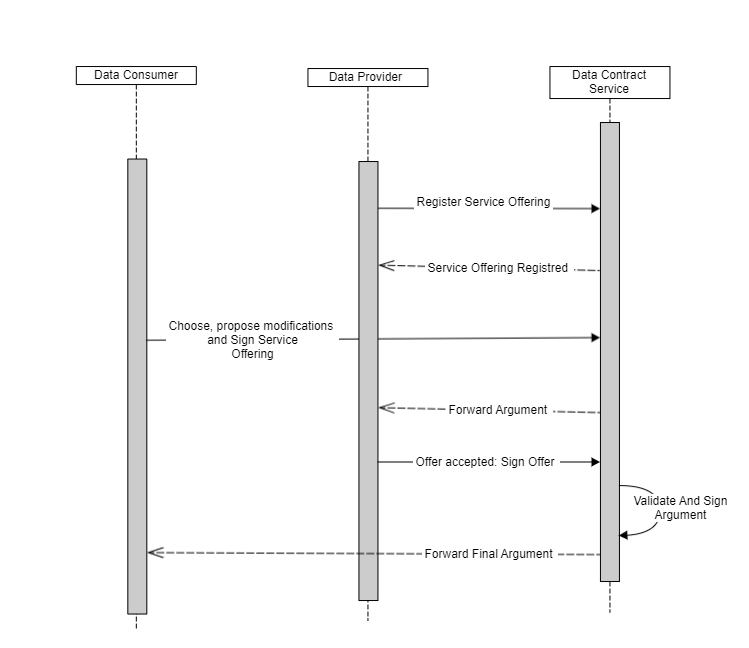
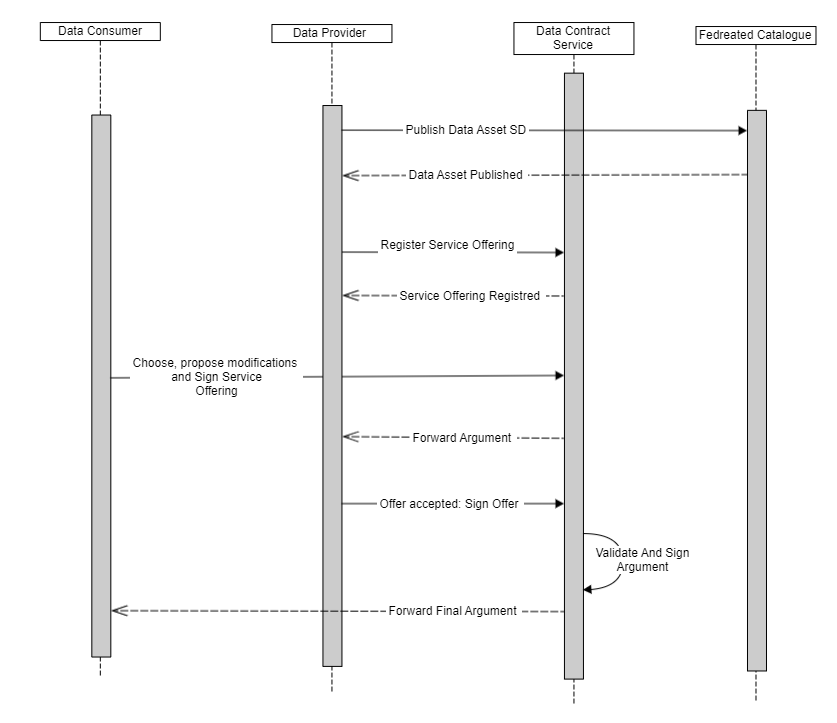
Updating Diagram

Changed region(s): [[0.0921, 0.0309, 0.9826, 0.9568], [0.3071, 0.0309, 0.4913, 0.0617], [0.0307, 0.0309, 0.1842, 0.0617]]

diff --git a/README.md b/README.md
@@ -27,9 +27,19 @@ GX-DCS is a stateless microservice providing backend logic with a few interfaces
 The data contract transaction process involves several key stakeholders—Data Consumer, Data Provider, and the Data Contract Service. Each party plays a specific role in the lifecycle of a contract, from the registration of a service offering to the validation and signing of the final agreement. Below, we illustrate two distinct contract transaction types: a negotiable contract and a non-negotiable contract.
 ## Making Non negotiable Contract
 For non-negotiable contracts, the process is simplified. The Data Consumer directly chooses and signs the service offering without the possibility of modifications. The Data Contract Service then validates the final contract and signs it.
+
 ![Product Overview](docs/make%20non%20negotaible%20contract%20overview.png)
 ## Making negotiable Contract
 In this case, the Data Consumer can choose a service offering and propose modifications. Once the Data Contract Service receives the modified offer, they forward the final agreement to the Data Provider. After the Data Provider accepts the offer, they send the argument with their signature. The Data Contract Service then validates and signs the arguments.
+
 ![Product Overview](docs/make%20negotaible%20contract%20overview.png)
 
 
+## Missing Implementation 
+Currently, the Data Contract Transaction (DCT) relies on two key external services: the **Trusted Service** and **the Federated Catalogue**. These components play a critical role in ensuring secure and valid interactions:
+
+- Trusted Service: The DCT uses the Trusted Service to validate that the requester is a Gaia-X Participant, ensuring that only authorized entities are involved in the transaction.
+
+- Federated Catalogue: The DCT interacts with the Federated Catalogue to validate the Data Asset by comparing it with the original Data Asset registered in the FC. This ensures the integrity and authenticity of the Data Asset throughout the transaction.
+
+At present, both the Trusted Service and Federated Catalogue interactions are mocked, meaning the DCT makes mock calls to simulate the behavior of these services during development. Full integration with these services will be implemented in future updates.
